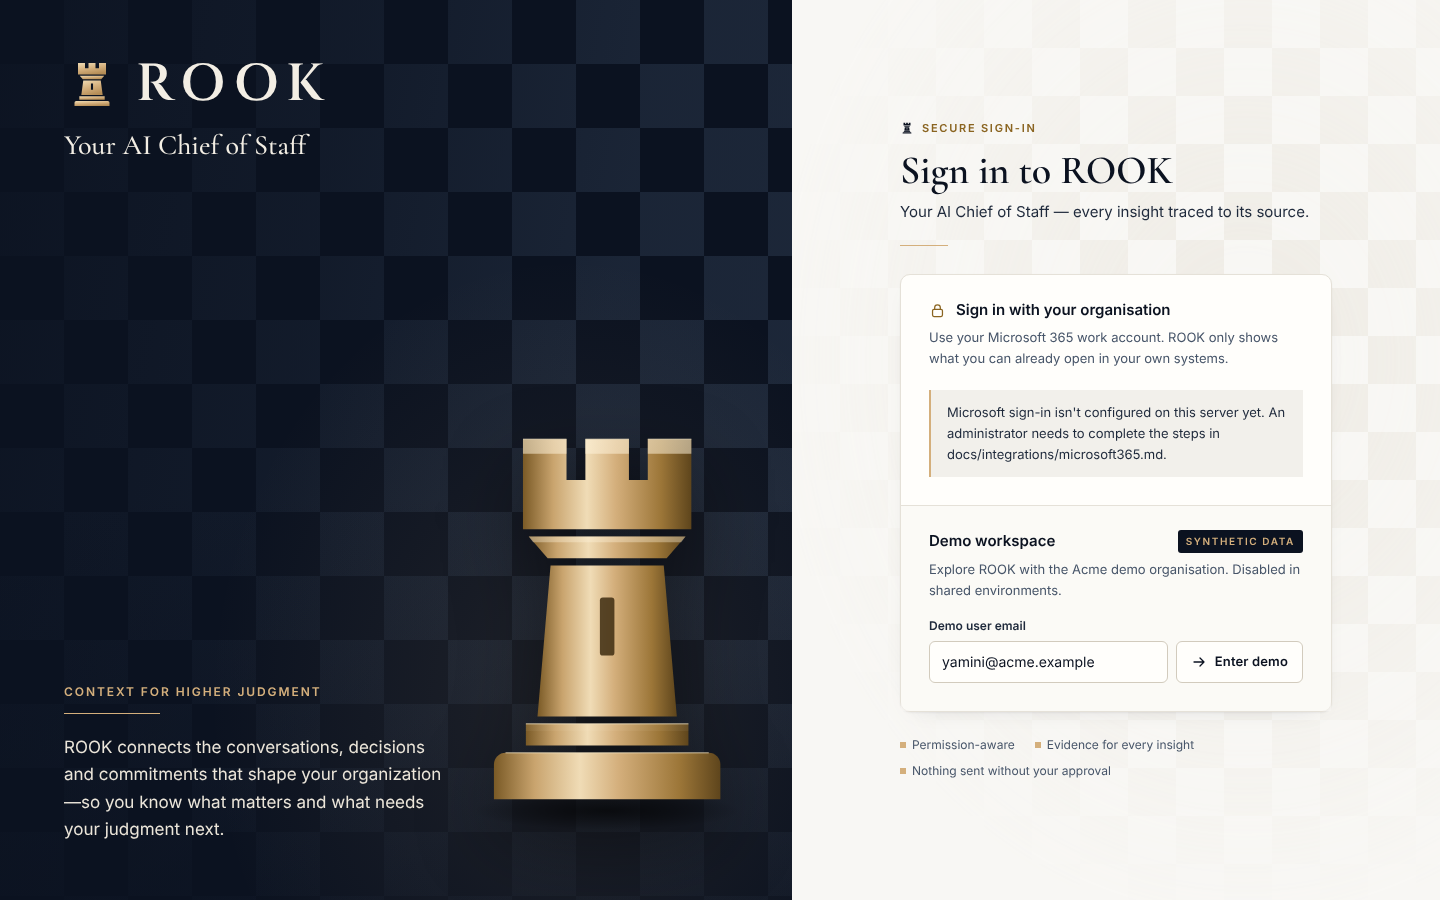
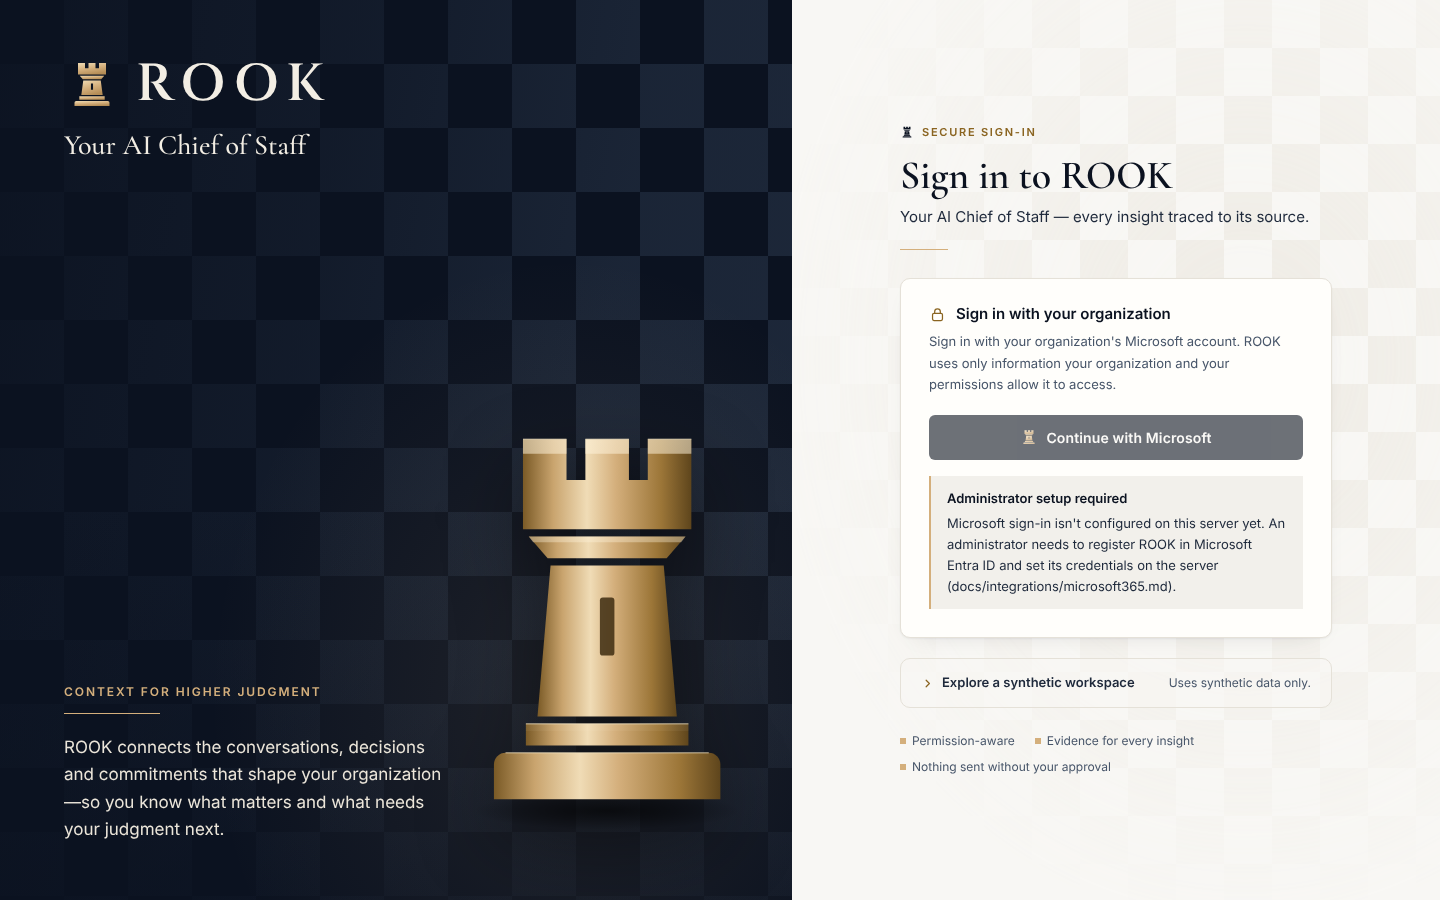
M3.5 P0-1: Continue with Microsoft as the primary sign-in
- Login: "Continue with Microsoft" is always the primary action. When the
  Entra app registration is absent it is shown disabled with an
  "Administrator setup required" explanation (no hidden capability, no
  bypass). When configured it starts the existing server-side OIDC + PKCE
  flow.
- The demo becomes a collapsed, secondary "Explore a synthetic workspace"
  path labelled "Uses synthetic data only."
- E2E: unconfigured state (disabled + described), configured state link to
  /api/auth/microsoft/login with return_to, demo collapsed; axe on both
  login states. Helper opens the synthetic workspace before demo sign-in.
- Docs: M3.5 plan approved; C-011..C-013 logged.

No backend or authentication change.

Claude-Session: https://claude.ai/code/session_01XjgUbqAZDXNApF1DXPERZT

diff --git a/frontend/src/app/login/page.tsx b/frontend/src/app/login/page.tsx
@@ -70,51 +70,74 @@ export default function LoginPage() {
           {!providers && !loadError ? <p role="status" className="mt-6 text-sm text-muted">Connecting…</p> : null}
 
           {providers ? (
-            <div className="mt-7 rounded-[var(--radius-md)] border border-line bg-surface shadow-[var(--shadow-insight)]">
-              <section aria-labelledby="sso" className="px-7 pb-7 pt-6">
+            <>
+              <section aria-labelledby="sso" className="mt-7 rounded-[var(--radius-md)] border border-line bg-surface px-7 pb-7 pt-6 shadow-[var(--shadow-insight)]">
                 <h2 id="sso" className="flex items-center gap-2.5 text-[15px] font-semibold text-midnight">
                   <RookIcon name="lock" size={17} className="text-gold-deep" />
-                  Sign in with your organisation
+                  Sign in with your organization
                 </h2>
                 <p className="mt-1.5 text-[13px] leading-relaxed text-muted">
-                  Use your Microsoft 365 work account. ROOK only shows what you can already open in your own systems.
+                  Sign in with your organization&apos;s Microsoft account. ROOK uses only information your organization and your
+                  permissions allow it to access.
                 </p>
                 {ms?.configured ? (
                   <a className={`${ROOK_BUTTON.primary} mt-5 w-full py-3 text-[14px]`} href={`${API_BASE}${ms.login_url}?return_to=${encodeURIComponent(returnTo)}`}>
                     <RookMark tone="gold" size={18} />
-                    <span>Sign in with Microsoft</span>
+                    <span>Continue with Microsoft</span>
                   </a>
                 ) : (
-                  <p className="mt-5 border-l-2 border-gold bg-sunken px-4 py-3 text-[13px] leading-relaxed text-ink-soft">
-                    Microsoft sign-in isn&apos;t configured on this server yet. An administrator needs to complete the steps in
-                    docs/integrations/microsoft365.md.
-                  </p>
+                  <>
+                    {/* The capability stays visible; it is not available until an administrator configures it. */}
+                    <button
+                      type="button"
+                      disabled
+                      aria-describedby="sso-setup"
+                      className={`${ROOK_BUTTON.primary} mt-5 w-full py-3 text-[14px] disabled:cursor-not-allowed disabled:opacity-60`}
+                    >
+                      <RookMark tone="gold" size={18} />
+                      <span>Continue with Microsoft</span>
+                    </button>
+                    <div id="sso-setup" className="mt-4 border-l-2 border-gold bg-sunken px-4 py-3 text-[13px] leading-relaxed text-ink-soft">
+                      <p className="font-semibold text-midnight">Administrator setup required</p>
+                      <p className="mt-1">
+                        Microsoft sign-in isn&apos;t configured on this server yet. An administrator needs to register ROOK in Microsoft
+                        Entra ID and set its credentials on the server (docs/integrations/microsoft365.md).
+                      </p>
+                    </div>
+                  </>
                 )}
               </section>
+
               {providers.dev_login ? (
-                <section aria-labelledby="demo" className="border-t border-line bg-board/60 px-7 pb-7 pt-6">
-                  <div className="flex items-center justify-between gap-3">
-                    <h2 id="demo" className="text-[15px] font-semibold text-midnight">Demo workspace</h2>
-                    <span className="rook-caps rounded-[var(--radius-xs)] bg-midnight px-2 py-1 text-[10px] text-gold">Synthetic data</span>
-                  </div>
-                  <p className="mt-1.5 text-[13px] leading-relaxed text-muted">Explore ROOK with the Acme demo organisation. Disabled in shared environments.</p>
-                  <form onSubmit={devLogin} className="mt-4">
-                    <label htmlFor={emailId} className="block text-[12px] font-semibold text-ink-soft">Demo user email</label>
-                    <div className="mt-1.5 flex flex-col gap-2 sm:flex-row">
-                      <input
-                        id={emailId}
-                        type="email"
-                        required
-                        value={email}
-                        onChange={(e) => setEmail(e.target.value)}
-                        className="min-w-0 flex-1 rounded-[var(--radius-sm)] border border-line-strong bg-surface px-3 py-2.5 text-sm text-midnight focus:border-gold-deep"
-                      />
-                      <RookButton type="submit" variant="secondary" icon="arrowRight" disabled={busy} className="py-2.5">{busy ? "Signing in…" : "Enter demo"}</RookButton>
-                    </div>
-                  </form>
-                </section>
+                <details className="group mt-5 rounded-[var(--radius-md)] border border-line bg-board/60 px-5 py-3.5 open:pb-5">
+                  <summary className="flex cursor-pointer select-none items-center justify-between gap-3 text-[13px] font-semibold text-ink-soft hover:text-midnight">
+                    <span className="inline-flex items-center gap-2">
+                      <RookIcon name="chevronRight" size={13} strokeWidth={2.2} className="rook-disclosure text-gold-deep" />
+                      Explore a synthetic workspace
+                    </span>
+                    <span className="text-[12px] font-normal text-muted">Uses synthetic data only.</span>
+                  </summary>
+                  <section aria-labelledby="demo" className="mt-3">
+                    <h2 id="demo" className="sr-only">Synthetic demo workspace</h2>
+                    <p className="text-[12px] leading-relaxed text-muted">The Acme demo organisation. Disabled in shared environments.</p>
+                    <form onSubmit={devLogin} className="mt-3">
+                      <label htmlFor={emailId} className="block text-[12px] font-semibold text-ink-soft">Demo user email</label>
+                      <div className="mt-1.5 flex flex-col gap-2 sm:flex-row">
+                        <input
+                          id={emailId}
+                          type="email"
+                          required
+                          value={email}
+                          onChange={(e) => setEmail(e.target.value)}
+                          className="min-w-0 flex-1 rounded-[var(--radius-sm)] border border-line-strong bg-surface px-3 py-2 text-sm text-midnight focus:border-gold-deep"
+                        />
+                        <RookButton type="submit" variant="secondary" icon="arrowRight" disabled={busy}>{busy ? "Signing in…" : "Enter demo"}</RookButton>
+                      </div>
+                    </form>
+                  </section>
+                </details>
               ) : null}
-            </div>
+            </>
           ) : null}
 
           <ul className="mt-6 flex flex-wrap gap-x-5 gap-y-2 text-[12px] text-muted">

diff --git a/frontend/e2e/states.spec.ts b/frontend/e2e/states.spec.ts
@@ -5,8 +5,23 @@ import { restrictedSignalId, signIn } from "./helpers";
 test("unauthenticated visitors are sent to sign in", async ({ page }) => {
   await page.goto("/risks");
   await expect(page).toHaveURL(/\/login\?return_to=%2Frisks/);
-  await expect(page.getByRole("heading", { name: "Sign in with your organisation" })).toBeVisible();
+  await expect(page.getByRole("heading", { name: "Sign in with your organization" })).toBeVisible();
+  // Microsoft stays the primary path; without server configuration it is shown as unavailable, with the reason.
+  const ms = page.getByRole("button", { name: "Continue with Microsoft" });
+  await expect(ms).toBeDisabled();
+  await expect(ms).toHaveAccessibleDescription(/Administrator setup required/);
   await expect(page.getByRole("main")).toContainText("Microsoft sign-in isn't configured");
+  // The synthetic workspace is secondary: collapsed until the visitor chooses it.
+  await expect(page.getByRole("button", { name: "Enter demo" })).toBeHidden();
+});
+
+test("when Microsoft is configured, Continue with Microsoft starts the server-side sign-in flow", async ({ page }) => {
+  await page.route("**/api/auth/providers", (route) =>
+    route.fulfill({ json: { providers: [{ id: "microsoft", name: "Microsoft", configured: true, login_url: "/api/auth/microsoft/login" }], dev_login: true } }),
+  );
+  await page.goto("/login?return_to=%2Frisks");
+  const ms = page.getByRole("link", { name: "Continue with Microsoft" });
+  await expect(ms).toHaveAttribute("href", /\/api\/auth\/microsoft\/login\?return_to=%2Frisks$/);
 });
 
 test("restricted sources show a permission-denied state, not their content", async ({ page, request }) => {

diff --git a/frontend/e2e/a11y.spec.ts b/frontend/e2e/a11y.spec.ts
@@ -13,8 +13,11 @@ async function audit(page: Page, name: string) {
 
 test("login screen", async ({ page }) => {
   await page.goto("/login");
-  await expect(page.getByRole("button", { name: "Enter demo" })).toBeVisible();
+  await expect(page.getByRole("button", { name: "Continue with Microsoft" })).toBeVisible();
   await audit(page, "login");
+  await page.getByText("Explore a synthetic workspace").click();
+  await expect(page.getByRole("button", { name: "Enter demo" })).toBeVisible();
+  await audit(page, "login: synthetic workspace open");
 });
 
 test("all P0 workspace screens", async ({ page }) => {

diff --git a/frontend/e2e/helpers.ts b/frontend/e2e/helpers.ts
@@ -4,6 +4,7 @@ export const API = "http://localhost:8000/api";
 
 export async function signIn(page: Page, email = "yamini@acme.example") {
   await page.goto("/login");
+  await page.getByText("Explore a synthetic workspace").click(); // the demo is a secondary, collapsed path
   await page.getByLabel("Demo user email").fill(email);
   await page.getByRole("button", { name: "Enter demo" }).click();
   await expect(page).toHaveURL("/");

diff --git a/docs/CONFLICTS.md b/docs/CONFLICTS.md
@@ -78,3 +78,15 @@ Precedence: 04 Principles > 00 Vision > 01 PRD > 02 MVP Scope > 03 UX/UI Spec > 
 - **Artifacts:** `03_UX_UI_SPEC §4` lists Home's main sections as Needs Your Attention, Today, Decisions, Commitments, Waiting For, At Risk, Recent Changes; product-owner brief (2026-10-10) replaces them with Executive pulse, One thing needs your judgment, Your next moves, Today's moves, Watch, Recent changes, organised around *situations*.
 - **Conflict:** the new IA no longer shows the registers as separate Home sections. Their content is kept and regrouped (attention → judgment + next moves; today → today's moves; decisions/commitments/waiting for → situations, pulse, next moves; at risk → watch); every register stays in its module.
 - **Resolution (product owner, 2026-10-10):** **Approved.** Home sections are regrouped into situations, keeping the underlying information. Implemented per `docs/design/ROOK_HOME_UX_SPEC.md`. `docs/product/` is not edited; updating UX §4 is the owner's call.
+
+### C-011 — Context sources beyond Microsoft 365 in M3.5
+- **Artifacts:** 02_MVP_SCOPE lists Slack, Teams chat, documents (SharePoint/OneDrive) and Jira as P1/P2; the M3.5 brief (2026-10-10) names them as context sources.
+- **Resolution (product owner, 2026-10-10):** Approved as proposed. They appear in the Context Control Center as *available later* with no Connect action; real connectors are built only on separate approval.
+
+### C-012 — Topic continuity vs per-topic timelines (P1)
+- **Artifacts:** rook-context-graph marks per-topic timelines P1; the M3.5 brief asks for Topic Continuity.
+- **Resolution (product owner, 2026-10-10):** Approved as proposed. P0 delivers evidence-based continuity anchored on a meeting, decision or risk, built only from explicit source relationships, shared ids/threads, meeting references, linked work items, explicit document references and existing deterministic relationships. No LLM topic extraction and no semantic relationships in P0; unrelated records stay separate evidence.
+
+### C-013 — Milestone naming
+- **Artifacts:** `docs/MVP_PLAN.md` uses "M4" for the Microsoft 365 connector + Entra sign-in (code complete, awaiting live configuration); the product owner's "do not start M4" refers to the next milestone.
+- **Resolution (product owner, 2026-10-10):** This work is **M3.5**. The next milestone stays unstarted.

diff --git a/docs/architecture/M3_5_PLAN.md b/docs/architecture/M3_5_PLAN.md
@@ -1,6 +1,7 @@
 # M3.5 — Product foundation: real identity, Context Control Center, meeting intelligence
 
-Status: **proposed — awaiting product-owner approval** (2026-10-10). Nothing in this plan is implemented yet.
+Status: **approved** (product owner, 2026-10-10): P0-1 … P0-7 and C-011 … C-013. Implemented in small PRs in the order below.
+Clarifications: Context is the primary concept but source provenance stays first-class (connected sources, account, permissions, data types, sync status/result, reconnect, disconnect); continuity uses explicit evidence only — never same project, same name or temporal proximity alone.
 Skills consulted: rook-security, rook-data, rook-connectors, rook-context-graph, rook-retrieval, rook-ai-eval, rook-ux, rook-quality.
 
 ## 1. What already exists (inspected)
